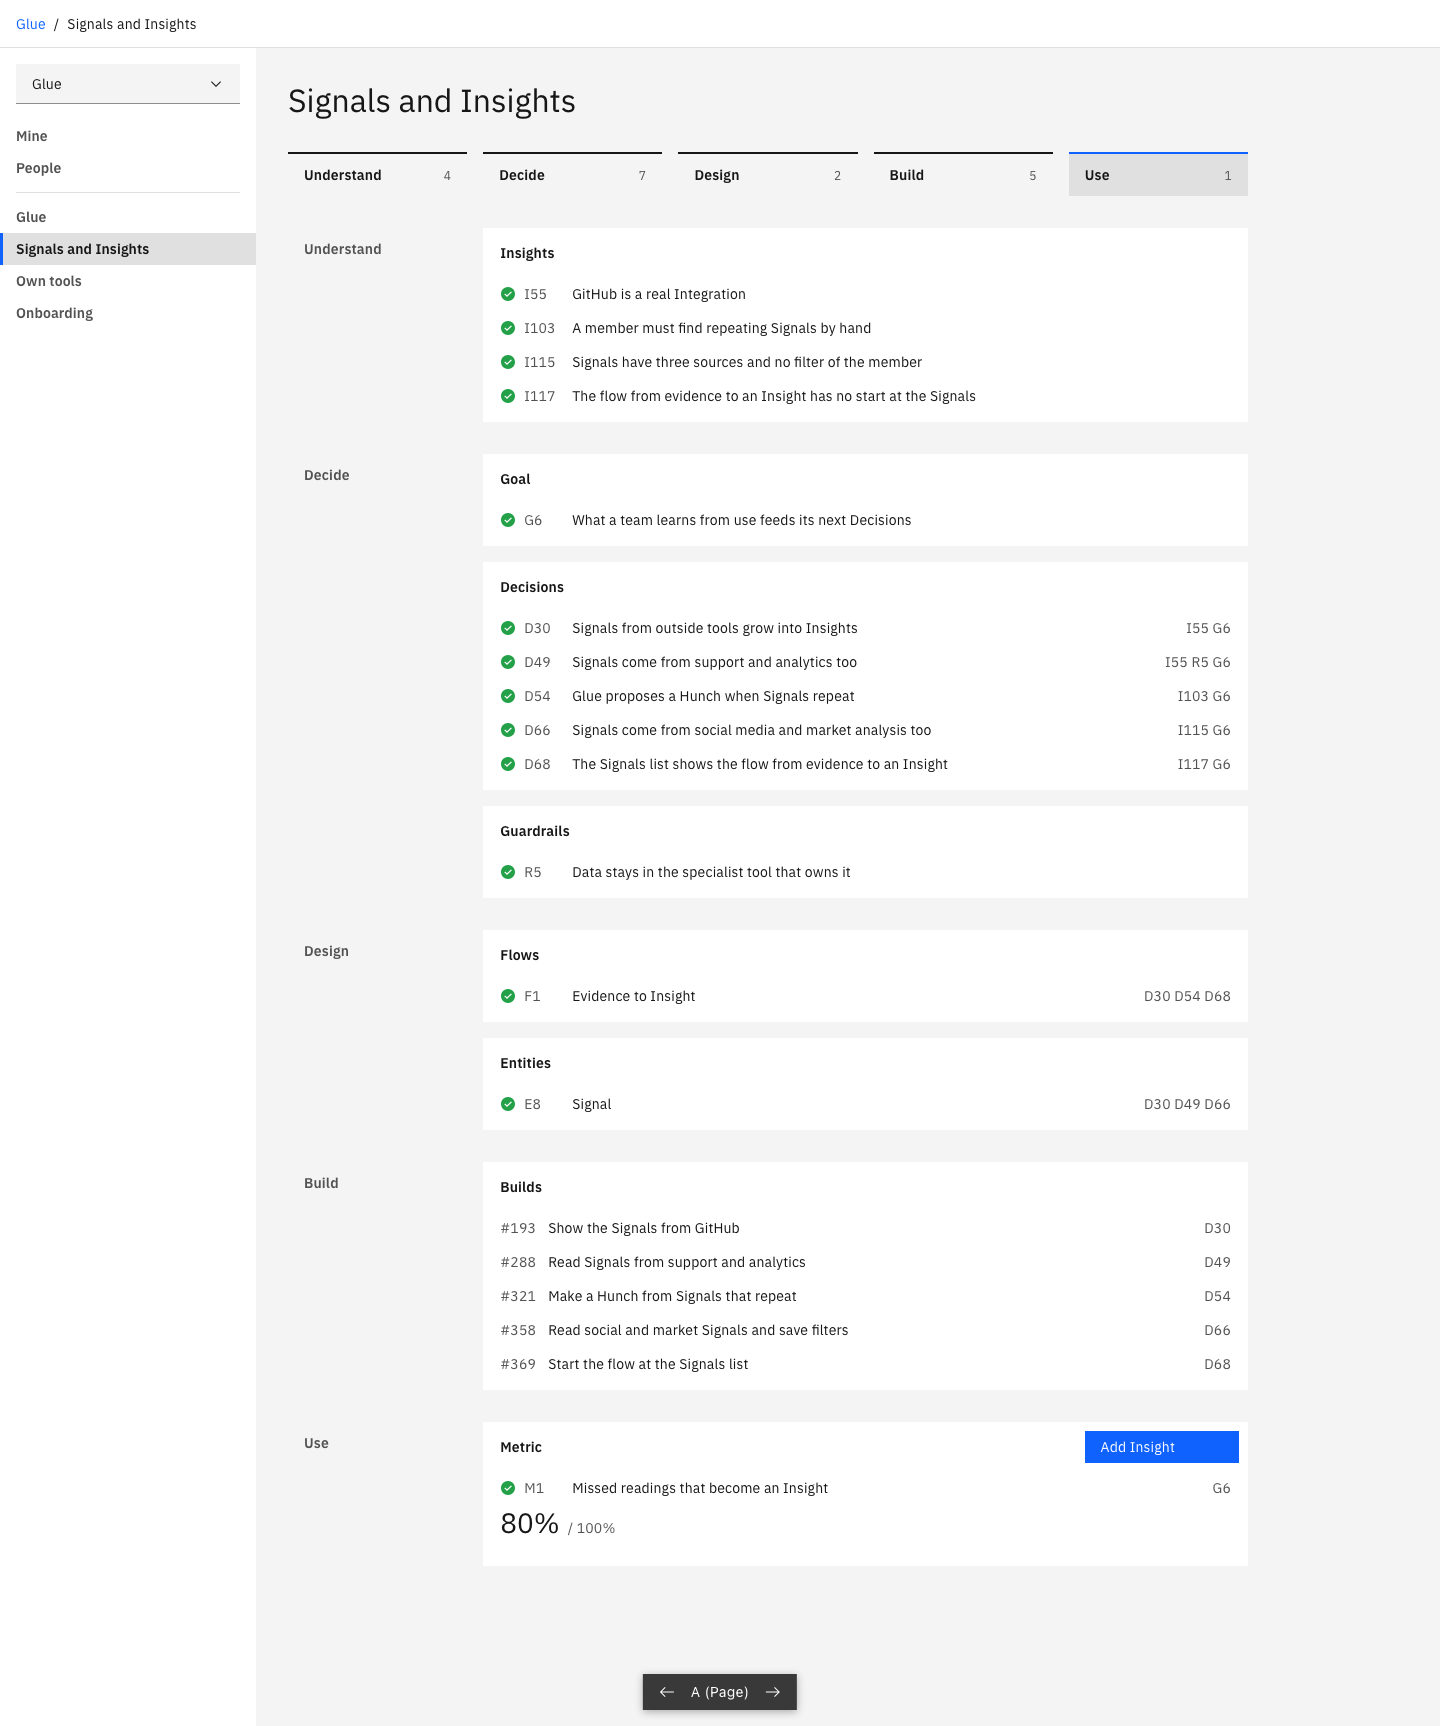
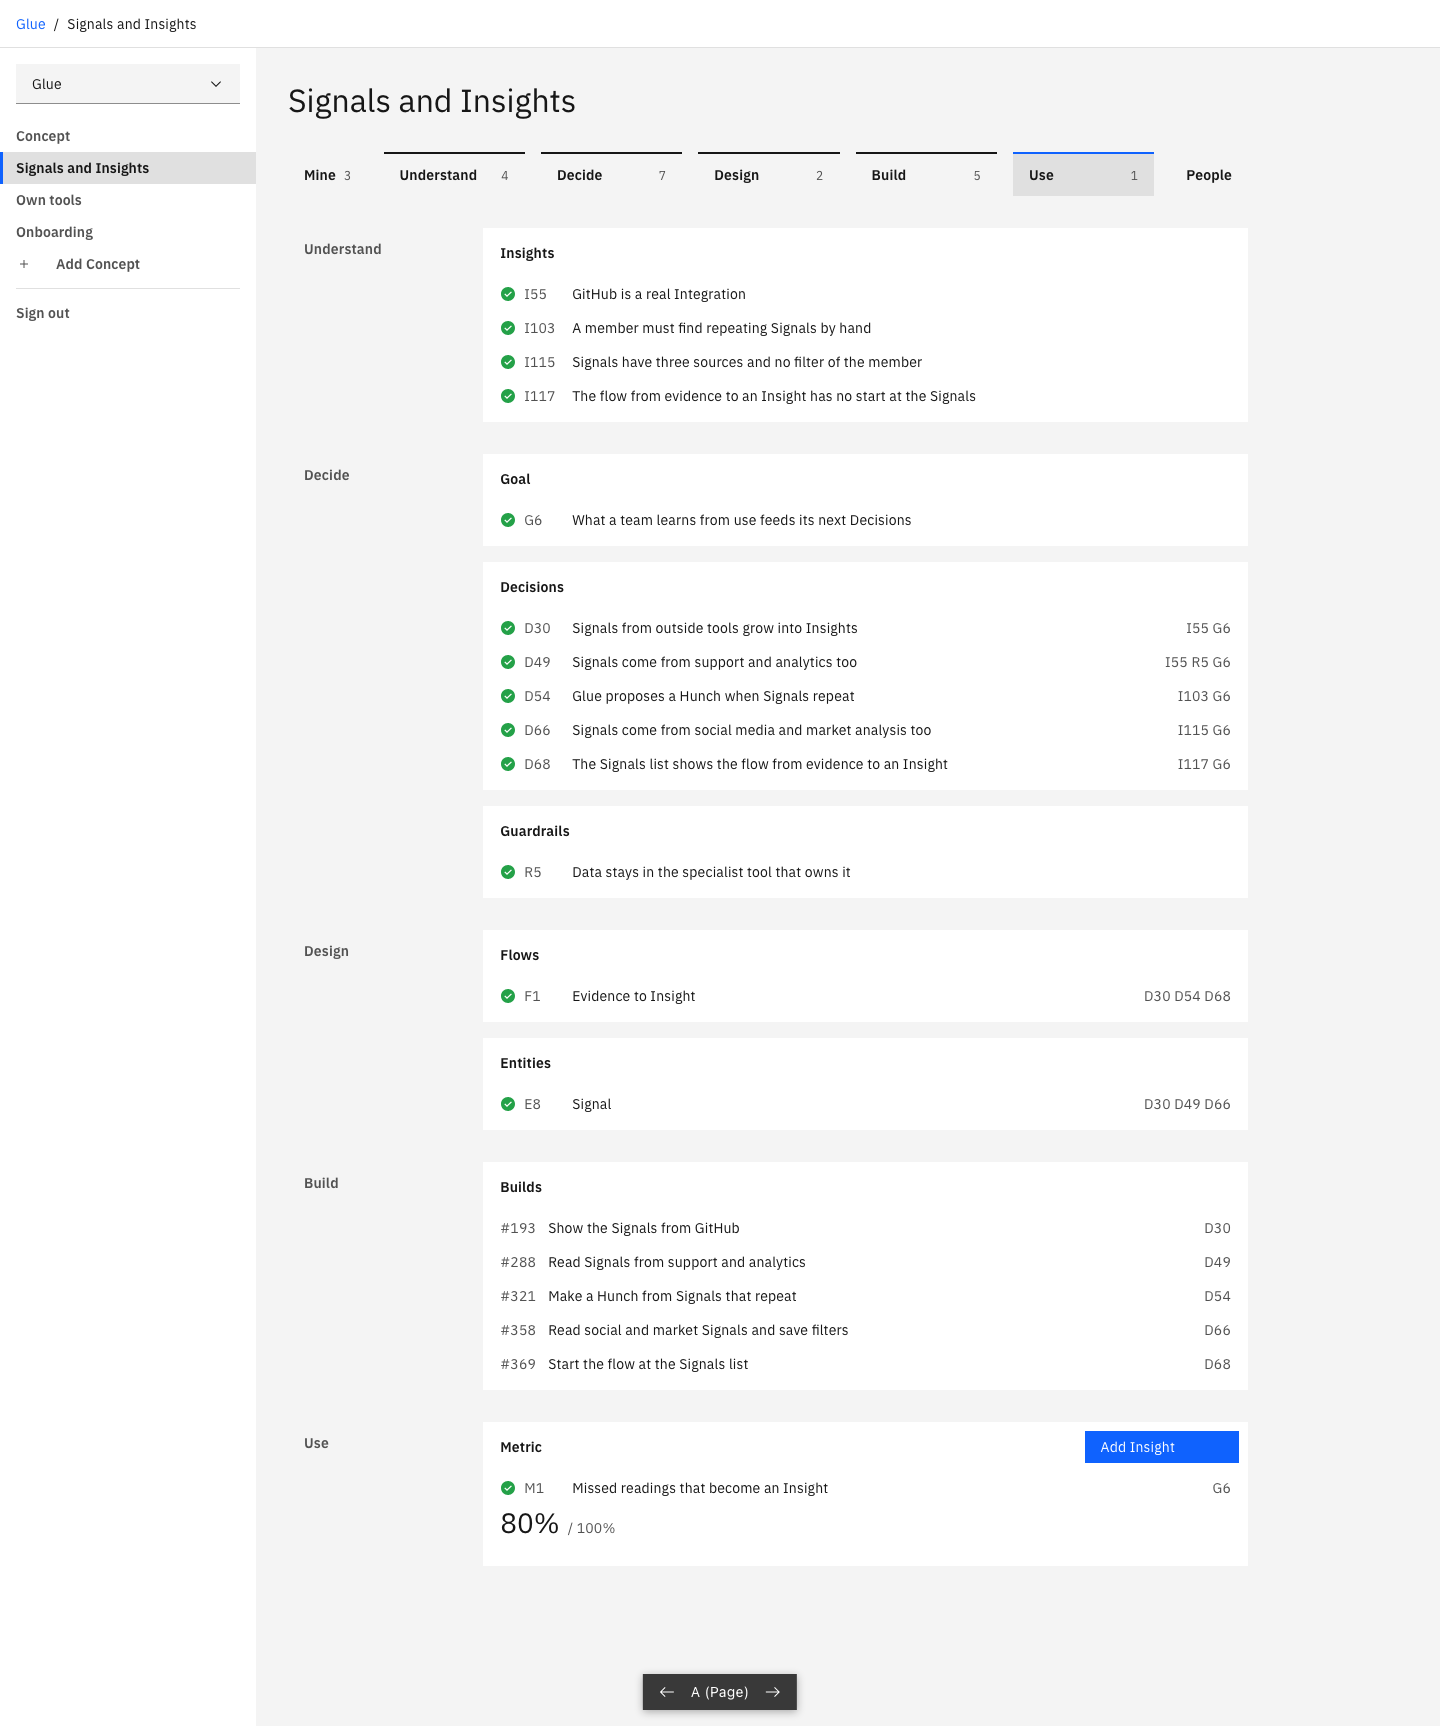
chore(prototype): Mine and People on the line of the loop steps
Mine and People leave the left panel. They are on one line with the
five loop steps: Mine with its count, the chain, then People. They
have no line on top, so they do not look like a step.

The left panel has the Project, its Concepts with the first item
Concept, Add Concept and Sign out. In variant C the rows stay below
the chain, in its five columns.

Decision: design-system/D16
Refs #404

diff --git a/src/prototype/concept-document/shell.tsx b/src/prototype/concept-document/shell.tsx
@@ -1,4 +1,4 @@
-import { ArrowLeft, ArrowRight } from '@carbon/icons-react'
+import { Add, ArrowLeft, ArrowRight } from '@carbon/icons-react'
 import {
   Breadcrumb,
   BreadcrumbItem,
@@ -19,6 +19,7 @@ import type { Trust } from '../../design-system/card.tsx'
 import type { Variant } from '../../project/project-search.ts'
 import { variants } from '../../project/project-search.ts'
 import type { Entry, NextStep, Step } from './document.ts'
+import { mineCount } from './seed.ts'
 import styles from './shell.module.scss'
 
 // PROTOTYPE, throwaway (design-system/D16). A copy of the navigation of
@@ -32,7 +33,8 @@ export const variantNames: Record<Variant, string> = {
 
 type ShellLink = { name: string; href: string; current?: boolean }
 
-// The left panel lists the Concepts, with the Project as the first item.
+// The left panel has the Project and its Concepts. The first item is the
+// Concept of the Project itself.
 export function Shell({
   project,
   concept,
@@ -63,10 +65,7 @@ export function Shell({
             />
           </Layer>
           <SideNavItems>
-            <SideNavLink href="#mine">Mine</SideNavLink>
-            <SideNavLink href="#people">People</SideNavLink>
-            <SideNavDivider />
-            <SideNavLink href="#project">{project}</SideNavLink>
+            <SideNavLink href="#concept">Concept</SideNavLink>
             {concepts.map(({ name, href, current = false }) => (
               <SideNavLink
                 key={href}
@@ -77,6 +76,11 @@ export function Shell({
                 {name}
               </SideNavLink>
             ))}
+            <SideNavLink href="#add-concept" renderIcon={Add}>
+              Add Concept
+            </SideNavLink>
+            <SideNavDivider />
+            <SideNavLink href="#sign-out">Sign out</SideNavLink>
           </SideNavItems>
         </SideNav>
       </Header>
@@ -85,47 +89,57 @@ export function Shell({
   )
 }
 
-// The five steps of the loop above the content. A step with a record is
-// filled, a step with none is empty, and one step is current. The next step
-// lies below the current one.
+// One line above the content: Mine, the five steps of the loop as a chain,
+// then People. A step with a record is filled, a step with none is empty,
+// and one step is current. Mine and People are no steps: they have no line.
+// The next step lies below the current one. The children lie below the
+// chain, in its five columns.
 export function LoopSteps({
   stepCounts,
   current,
   next,
   className,
+  children,
 }: {
   stepCounts: ReadonlyArray<{ step: Step; count: number }>
   current?: Step
   next?: ReactNode
   className?: string
+  children?: ReactNode
 }) {
   const position = stepCounts.findIndex(({ step }) => step === current)
 
   return (
-    <nav
-      aria-label="Loop"
-      className={className ? `${styles.loop} ${className}` : styles.loop}
-    >
-      <ol className={styles.steps}>
-        {stepCounts.map(({ step, count }) => (
-          <li key={step}>
-            <a
-              href={`#${step}`}
-              aria-current={step === current ? 'step' : undefined}
-              className={count > 0 ? styles.step : styles.emptyStep}
-            >
-              <span>{step}</span>
-              {count > 0 && <span className={styles.count}>{count}</span>}
-            </a>
-          </li>
-        ))}
-      </ol>
+    <div className={className ? `${styles.loop} ${className}` : styles.loop}>
+      <nav aria-label="Main" className={styles.line}>
+        <a href="#mine" className={styles.beside}>
+          <span>Mine</span>
+          <span className={styles.count}>{mineCount}</span>
+        </a>
+        <ol className={styles.steps}>
+          {stepCounts.map(({ step, count }) => (
+            <li key={step}>
+              <a
+                href={`#${step}`}
+                aria-current={step === current ? 'step' : undefined}
+                className={count > 0 ? styles.step : styles.emptyStep}
+              >
+                <span>{step}</span>
+                {count > 0 && <span className={styles.count}>{count}</span>}
+              </a>
+            </li>
+          ))}
+        </ol>
+        <a href="#people" className={styles.beside}>
+          People
+        </a>
+      </nav>
       {next && position >= 0 && (
-        <div className={styles.steps}>
-          <div style={{ gridColumnStart: position + 1 }}>{next}</div>
-        </div>
+        // The first column of the line is Mine.
+        <div style={{ gridColumnStart: position + 2 }}>{next}</div>
       )}
-    </nav>
+      {children && <div className={styles.below}>{children}</div>}
+    </div>
   )
 }
 

diff --git a/src/prototype/concept-document/variant-c.tsx b/src/prototype/concept-document/variant-c.tsx
@@ -69,55 +69,56 @@ export function VariantC({ document }: { document: ConceptDocumentShape }) {
         stepCounts={stepCounts}
         current={next?.step}
         next={open && <Button size="sm">{open.label}</Button>}
-      />
-      {rows.map(({ goal, goalNext, metrics, metricNext, lines }) => (
-        <section key={goal?.id ?? 'none'} className={styles.group}>
-          {goal ? (
-            <a href={goal.href} className={styles.goal}>
-              {goal.title}
-            </a>
-          ) : (
-            <Gap name="Goal" next={goalNext} className={styles.goalGap} />
-          )}
-          <div
-            className={styles.metric}
-            style={{ gridRowEnd: `span ${lines.length + 1}` }}
-          >
-            {metrics.map((metric) => (
-              <div key={metric.id} className={styles.cell}>
-                <EntryRow entry={metric} />
-                <ReadingValue entry={metric} />
-                {metricNext && (
-                  <Button size="sm" className={styles.action}>
-                    {metricNext.label}
-                  </Button>
+      >
+        {rows.map(({ goal, goalNext, metrics, metricNext, lines }) => (
+          <section key={goal?.id ?? 'none'} className={styles.group}>
+            {goal ? (
+              <a href={goal.href} className={styles.goal}>
+                {goal.title}
+              </a>
+            ) : (
+              <Gap name="Goal" next={goalNext} className={styles.goalGap} />
+            )}
+            <div
+              className={styles.metric}
+              style={{ gridRowEnd: `span ${lines.length + 1}` }}
+            >
+              {metrics.map((metric) => (
+                <div key={metric.id} className={styles.cell}>
+                  <EntryRow entry={metric} />
+                  <ReadingValue entry={metric} />
+                  {metricNext && (
+                    <Button size="sm" className={styles.action}>
+                      {metricNext.label}
+                    </Button>
+                  )}
+                </div>
+              ))}
+              {metrics.length === 0 && <Gap name="Metric" next={metricNext} />}
+            </div>
+            {lines.map((line) => (
+              <div
+                key={line.id}
+                className={
+                  line.id === 'none' ? styles.emptyThread : styles.thread
+                }
+              >
+                {line.cells.map((cell) =>
+                  cell.entries.length > 0 ? (
+                    <div key={cell.key} className={styles.cell}>
+                      {cell.entries.map((entry) => (
+                        <EntryRow key={entry.id} entry={entry} />
+                      ))}
+                    </div>
+                  ) : (
+                    <Gap key={cell.key} name={cell.missing} next={cell.next} />
+                  ),
                 )}
               </div>
             ))}
-            {metrics.length === 0 && <Gap name="Metric" next={metricNext} />}
-          </div>
-          {lines.map((line) => (
-            <div
-              key={line.id}
-              className={
-                line.id === 'none' ? styles.emptyThread : styles.thread
-              }
-            >
-              {line.cells.map((cell) =>
-                cell.entries.length > 0 ? (
-                  <div key={cell.key} className={styles.cell}>
-                    {cell.entries.map((entry) => (
-                      <EntryRow key={entry.id} entry={entry} />
-                    ))}
-                  </div>
-                ) : (
-                  <Gap key={cell.key} name={cell.missing} next={cell.next} />
-                ),
-              )}
-            </div>
-          ))}
-        </section>
-      ))}
+          </section>
+        ))}
+      </LoopSteps>
     </article>
   )
 }

diff --git a/src/prototype/concept-document/shell.module.scss b/src/prototype/concept-document/shell.module.scss
@@ -29,17 +29,51 @@ $panel-width: $spacing-10 * 4;
   }
 }
 
+// Mine, the five columns of the chain, People.
 .loop {
-  display: flex;
-  flex-direction: column;
-  gap: $spacing-05;
-}
-
-// Five columns: a variant can put its content below a step.
-.steps {
   display: grid;
   gap: $spacing-05;
-  grid-template-columns: repeat(5, minmax(0, 1fr));
+  grid-template-columns: auto repeat(5, minmax(0, 1fr)) auto;
+}
+
+.line {
+  display: contents;
+}
+
+// The chain and what lies below it share the five columns: a variant can
+// put its content below a step.
+.steps,
+.below {
+  display: grid;
+  grid-column: 2 / 7;
+  grid-template-columns: subgrid;
+}
+
+.below {
+  margin-block-start: $spacing-05;
+  row-gap: $spacing-07;
+}
+
+// Mine and People are no steps of the loop: no line.
+.beside {
+  @include type-style('heading-compact-01');
+
+  display: flex;
+  align-items: baseline;
+  align-self: start;
+  padding: $spacing-04 $spacing-05;
+  border-block-start: 2px solid transparent;
+  color: $text-primary;
+  gap: $spacing-03;
+  text-decoration: none;
+
+  &:hover {
+    background-color: $layer-hover;
+  }
+
+  &:focus {
+    @include focus-outline('outline');
+  }
 }
 
 // A filled step: a solid line. An empty step: a dashed line.

diff --git a/src/prototype/concept-document/seed.ts b/src/prototype/concept-document/seed.ts
@@ -304,6 +304,9 @@ export function findBuilds(concept?: string): ProjectBuilds {
   return { builds: concept ? (builds[concept] ?? []) : [], reason: null }
 }
 
+// The count of Mine. It is made up.
+export const mineCount = 3
+
 // The reading of M1 misses its target.
 export const measured: MeasuredPart[] = [
   {

diff --git a/src/prototype/concept-document/variant-c.module.scss b/src/prototype/concept-document/variant-c.module.scss
@@ -19,8 +19,9 @@
 .group {
   display: grid;
   align-items: start;
-  gap: $spacing-03 $spacing-05;
-  grid-template-columns: repeat(5, minmax(0, 1fr));
+  grid-column: 1 / -1;
+  grid-template-columns: subgrid;
+  row-gap: $spacing-03;
 }
 
 .goal {

diff --git a/docs/screenshots/prototype/README.md b/docs/screenshots/prototype/README.md
@@ -18,6 +18,15 @@ The left panel opens the other two Concepts. The bar at the bottom and the arrow
 
 Take the pictures again with `node e2e/prototype-screenshots.mjs`.
 
+## Navigation
+
+All three variants use the same navigation, in [shell.tsx](../../../src/prototype/concept-document/shell.tsx).
+
+- One line above the content has Mine with its count, then the five loop steps, then People.
+- A loop step has a line on top. A solid line is a step with records, a dashed line is an empty step, and a blue line is the current step.
+- Mine and People are no loop steps, so they have no line.
+- The left panel has the Project, its Concepts, Add Concept and Sign out.
+
 ## A, Page
 
 ![A full](a-full.png)
@@ -52,5 +61,6 @@ Take the pictures again with `node e2e/prototype-screenshots.mjs`.
 
 - The Metric "Missed readings that become an Insight" and its reading are made up. The other records come from the Project `glue`.
 - The Concept "Onboarding" is made up, to show a new Concept.
+- The count of Mine is made up.
 - The buttons do nothing. No variant writes.
 - Only the next step has a button. The other empty areas have none, to keep the screen calm.
